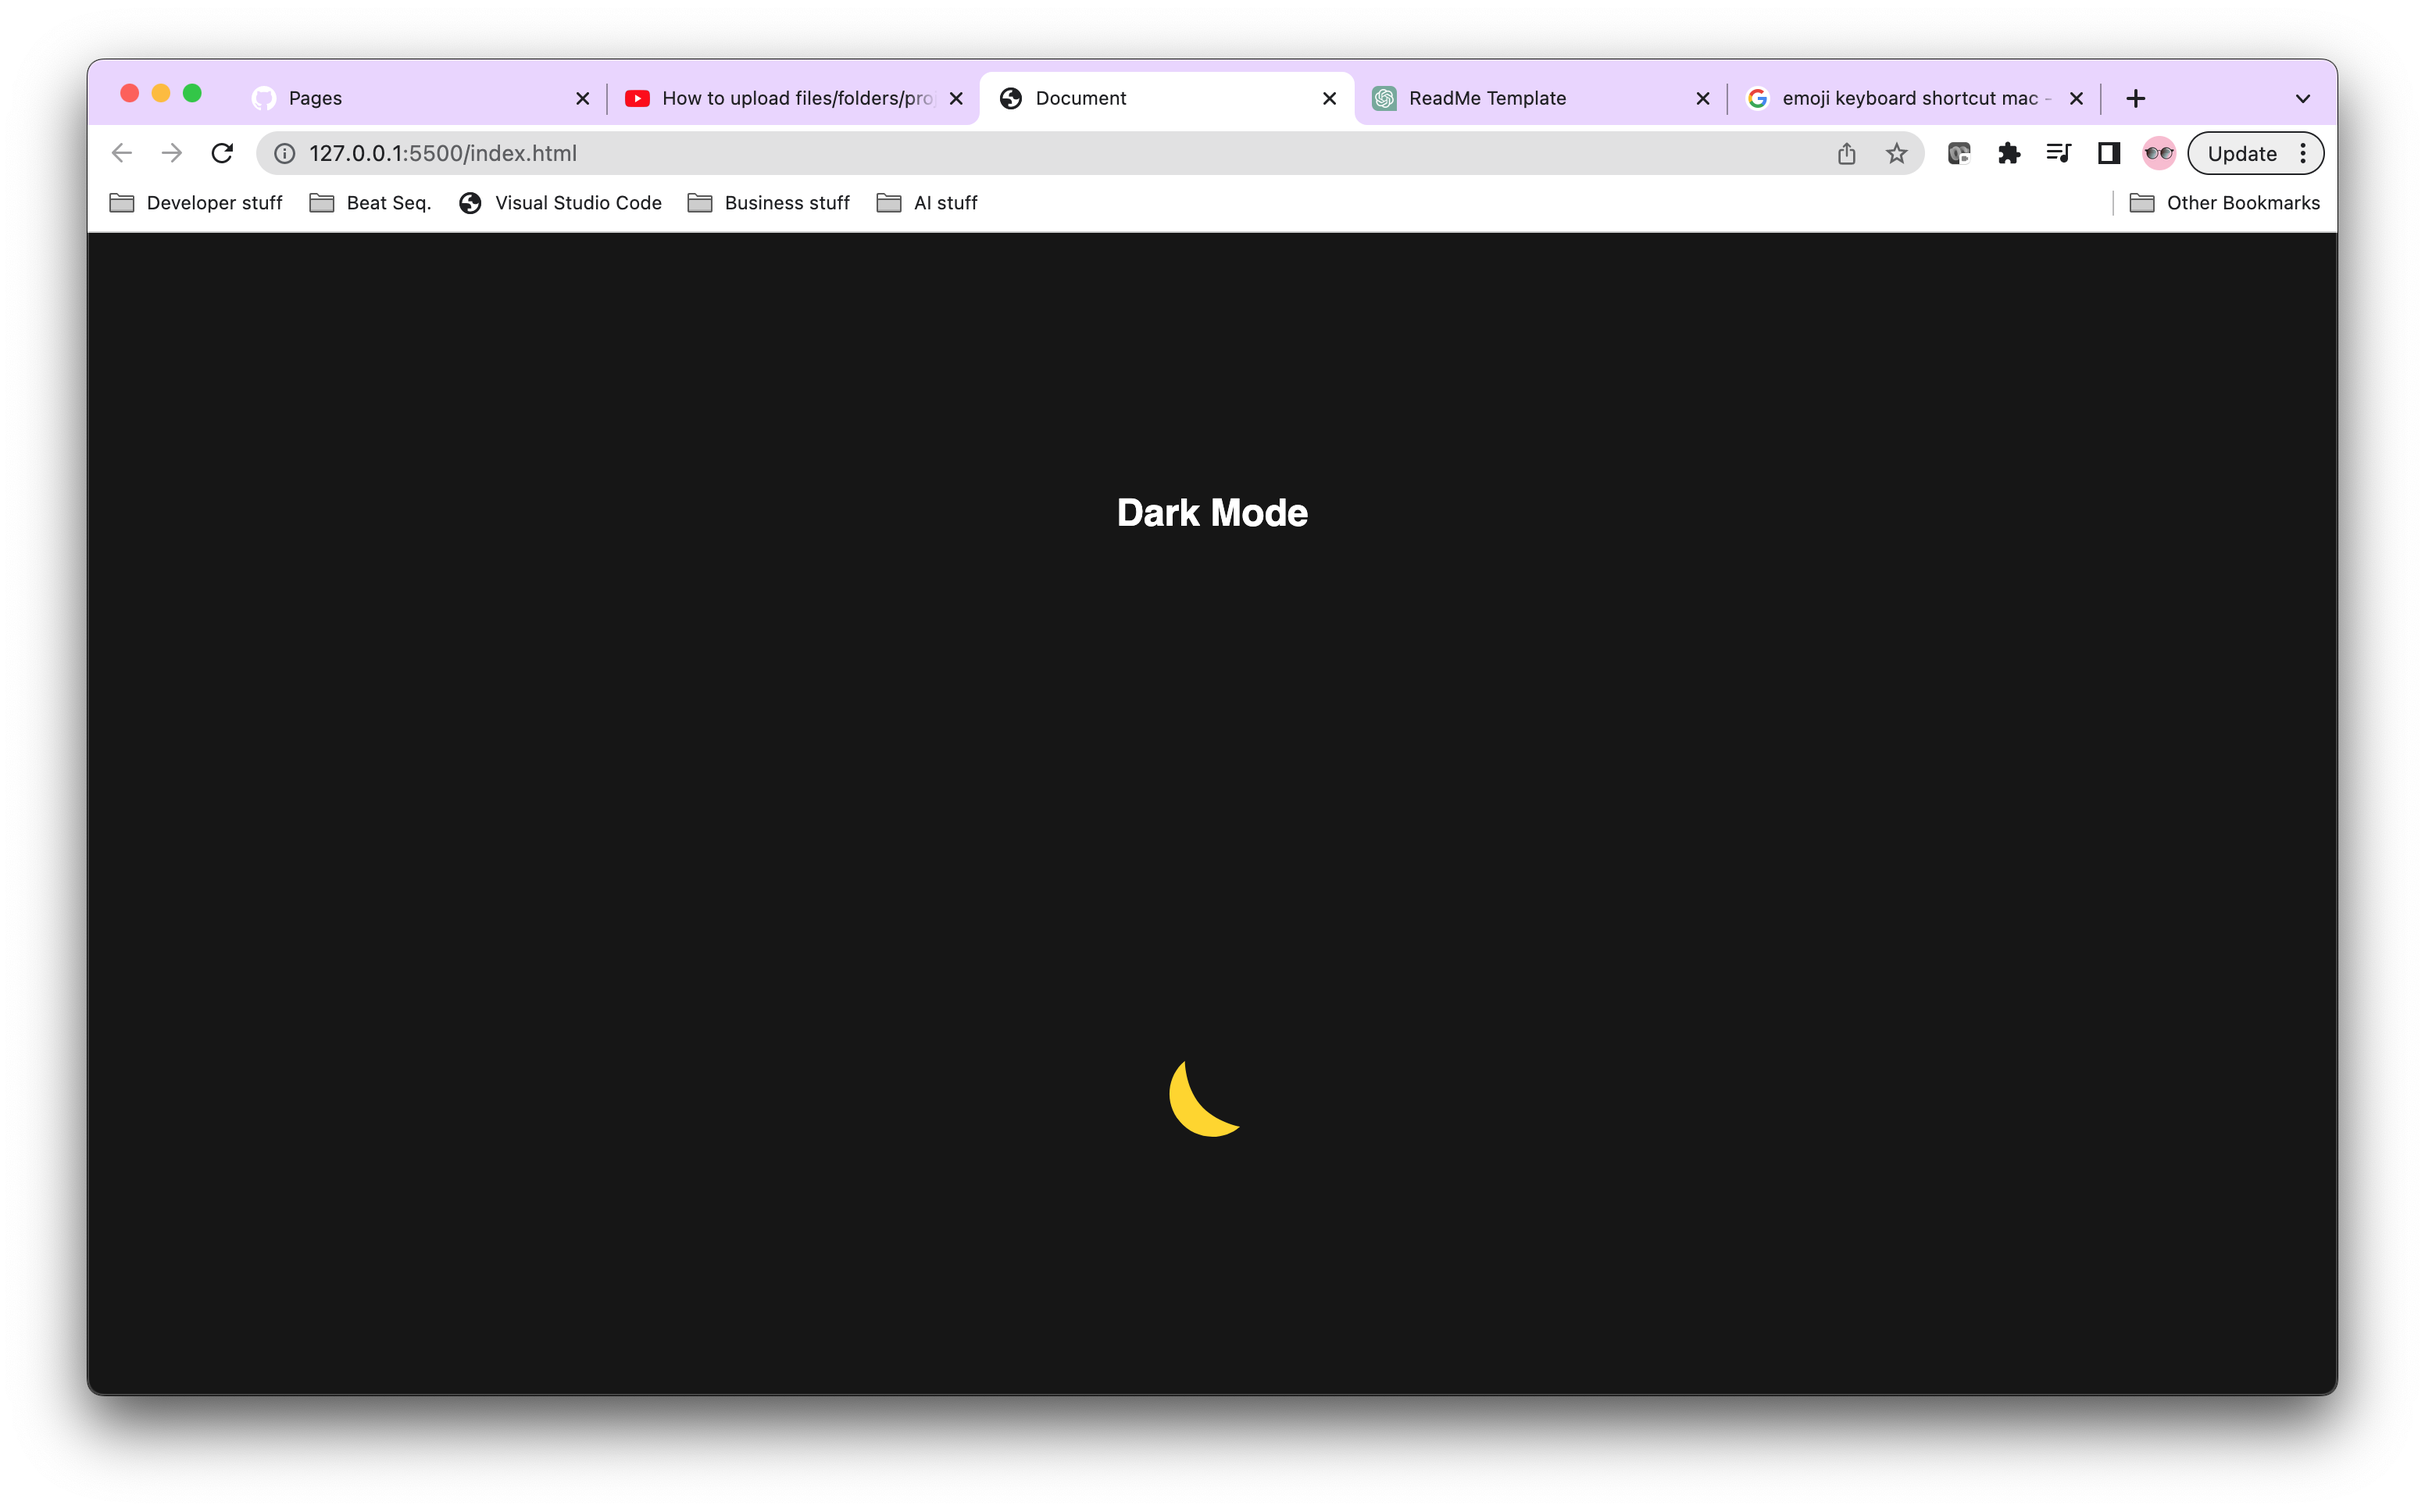
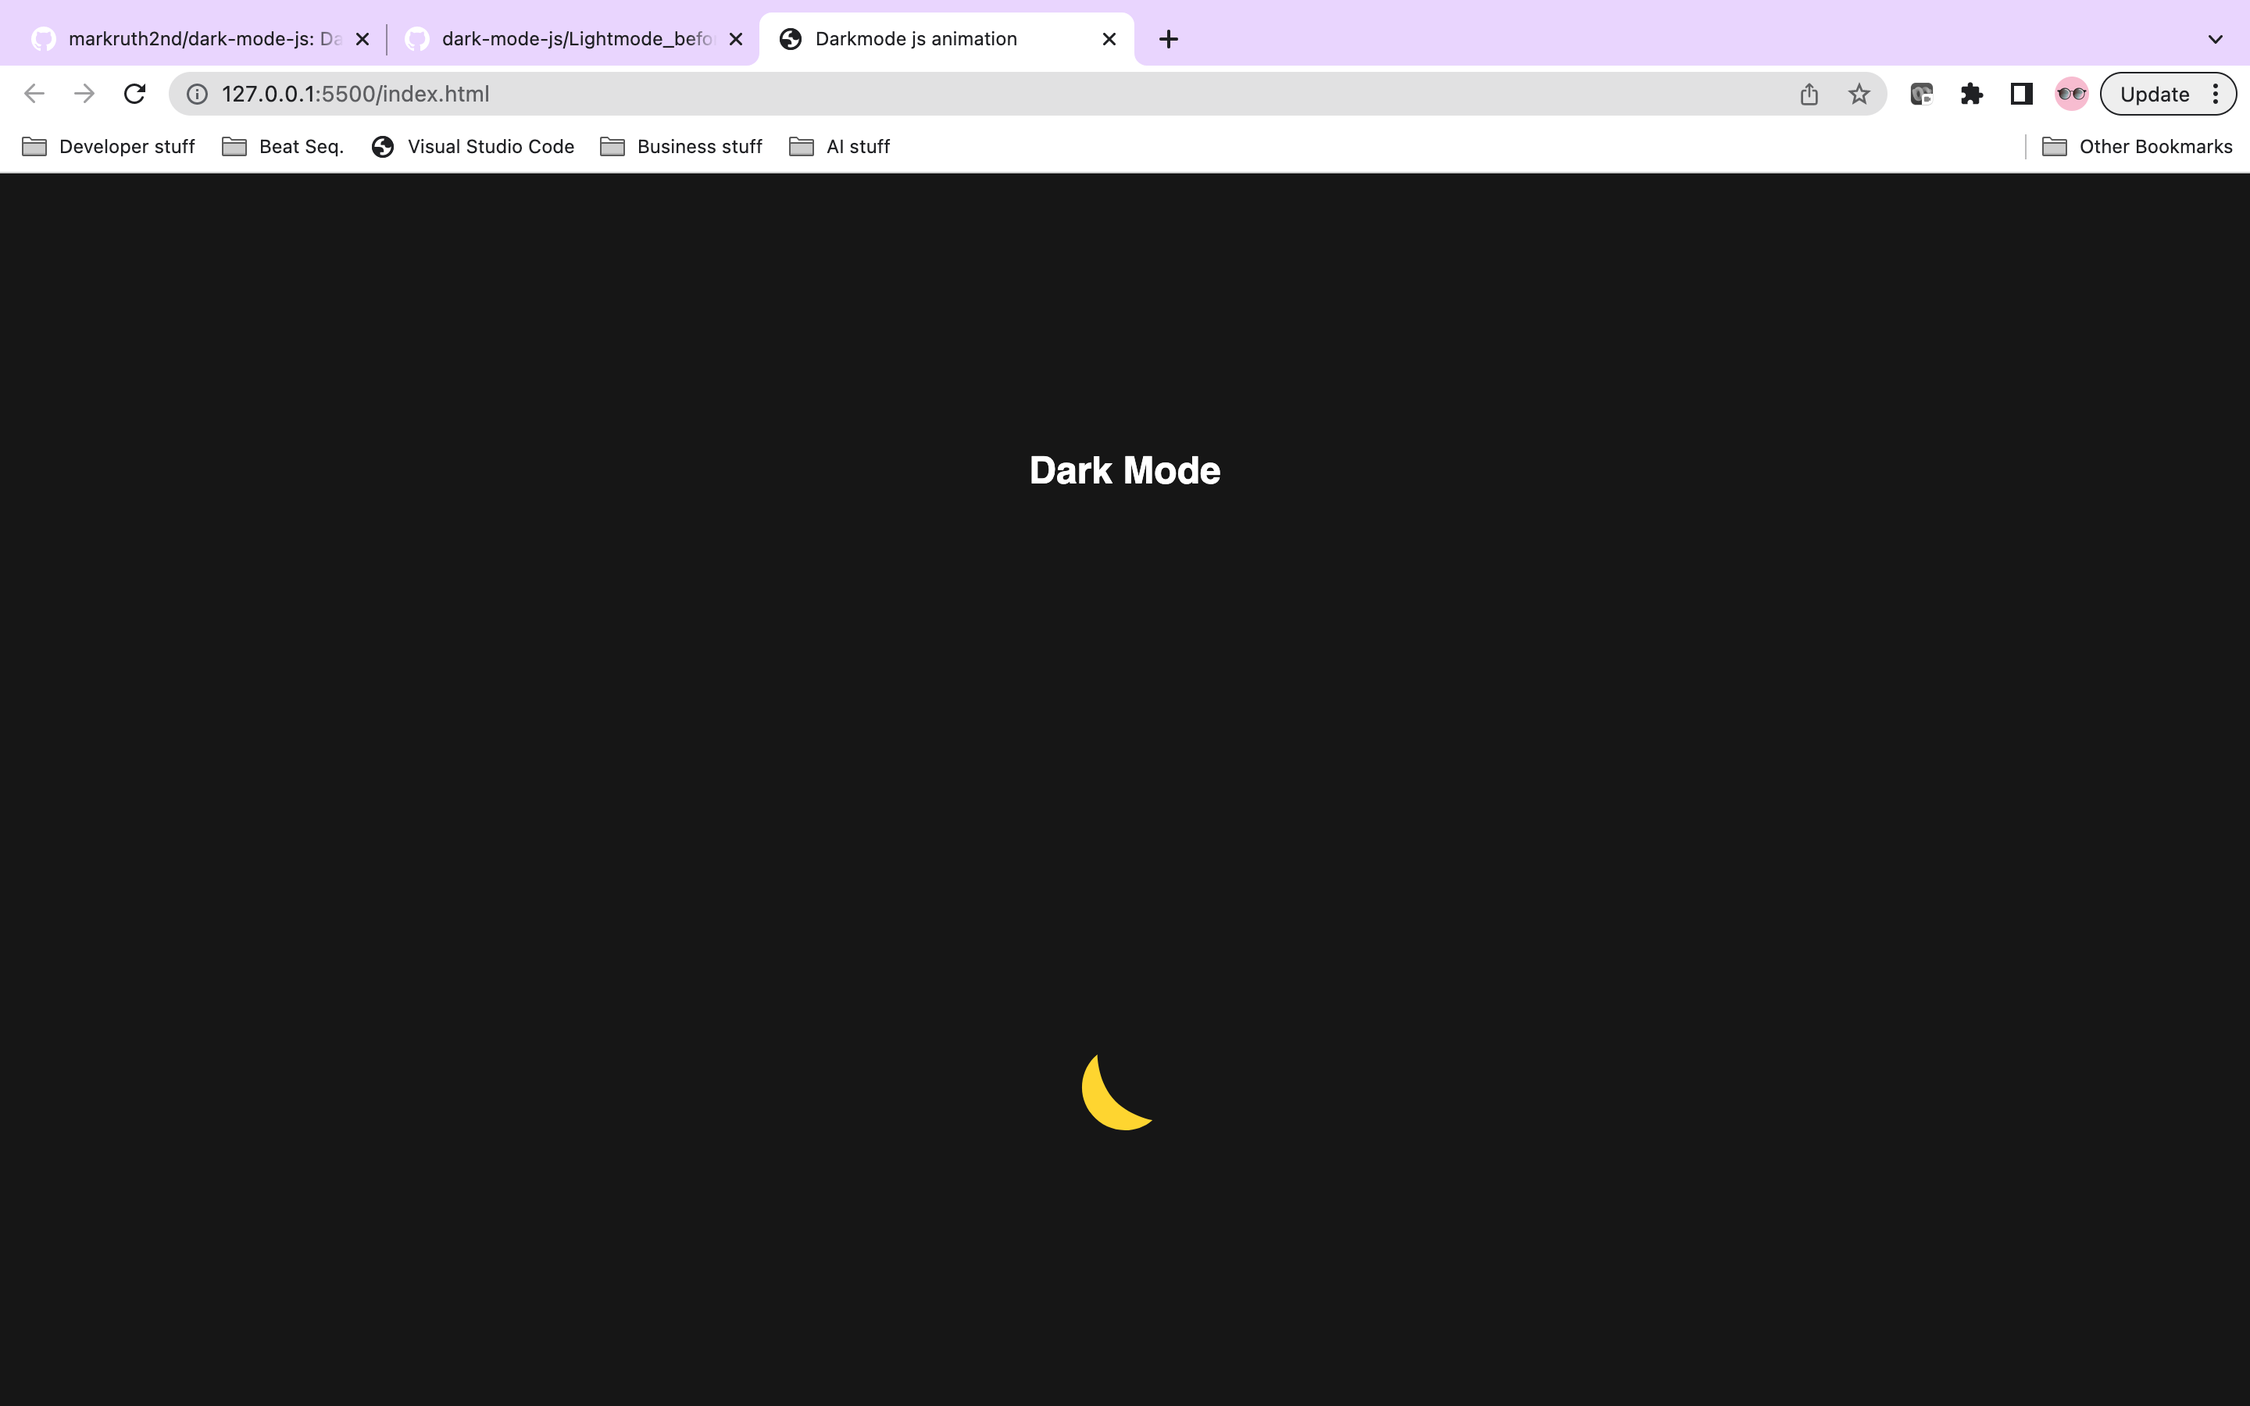
updated images in readme

Changed region(s): [[0.0, 0.0, 1.0, 1.0], [0.4375, 0.3111, 0.5625, 0.3733], [0.4688, 0.7156, 0.5312, 0.8089]]

diff --git a/index.html b/index.html
@@ -5,7 +5,7 @@
     <meta http-equiv="X-UA-Compatible" content="IE=edge">
     <meta name="viewport" content="width=device-width, initial-scale=1.0">
     <link rel="stylesheet" href="style.css">
-    <title>Document</title>
+    <title>Darkmode js animation</title>
 </head>
 <body>
     
